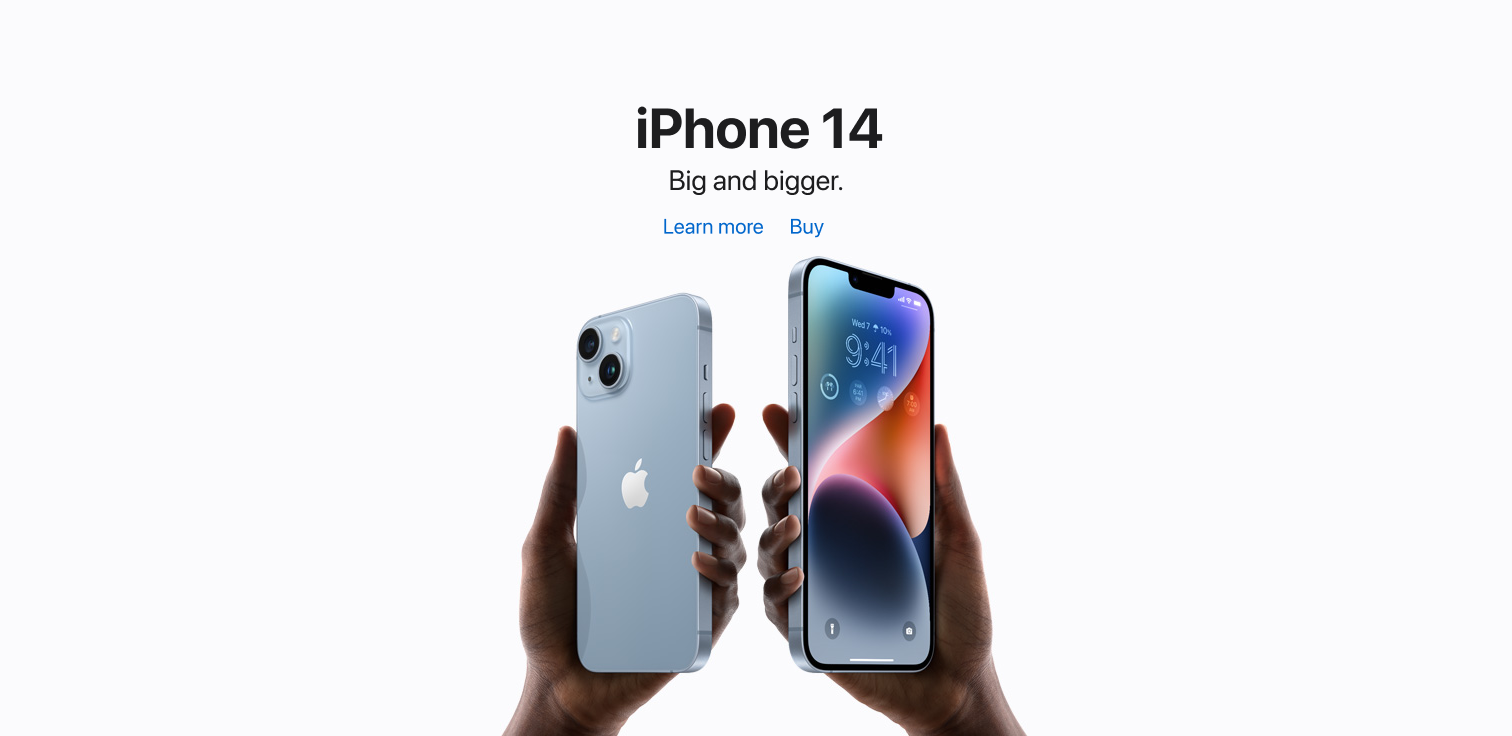
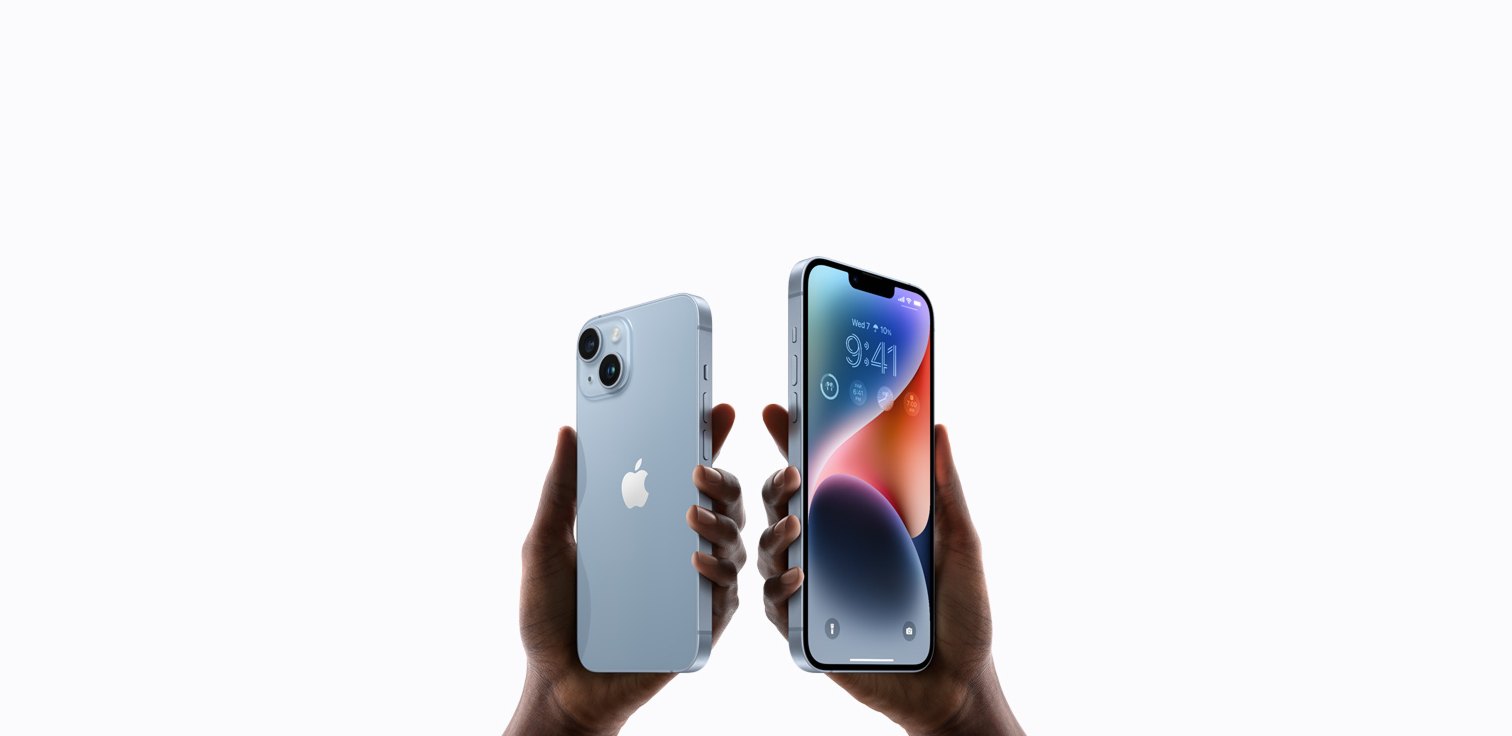
atualizando a section3

Changed region(s): [[0.4041, 0.125, 0.5906, 0.3125]]

diff --git a/style.css b/style.css
@@ -114,11 +114,51 @@ h2{
     padding: 12px 0;
 }
 
+.figura3sec3{
+    width: 100%;
+    height: 736px; 
+    display: flex;
+    flex-direction: column;
+    justify-content: center;
+    align-items: center;
+    text-align: center;
+}
+
 .figura3{
     background-image: url("imagens/figura\ 3.png");
     background-size: cover;
     width: 100%;
-    height: 612px; 
+    height: 736px;
+}
+
+.h1sec3{
+    color: #1D1D1F;
+    font-size: 56px;
+    font-weight: bold;
+    font-family: "Roboto", sans-serif;
+    line-height: 60px;
+}
+
+.h2sec3{
+    color: #1D1D1F;
+    font-size: 28px;
+    font-weight: bold;
+    font-family: "Roboto", sans-serif;
+    line-height: 32px;
+}
+
+.linksec3{
+    color: #0066CC;
+    font-size: 20px;
+    font-family: "Roboto", sans-serif;
+    line-height: 28px;
+}
+
+.asec3{
+    width: 206.93px;
+    display: flex;
+    justify-content: space-between;
+    align-items: center;
 }
 
 .sec4{

diff --git a/index.html b/index.html
@@ -85,7 +85,21 @@
             </section>
 
             <section class="sec3">
-                <div class="figura3">
+                <div class="figura3sec3">
+                    <h1 class="h1sec3">iPhone 14</h1>
+                    <h2 class="h2sec3">Big and bigger.</h2>
+                    <div class="asec3">
+                        <a href="">
+                            <p class="linksec3">Learn more</p>
+                        </a>
+
+                        <a href="">
+                            <p class="linksec3">Buy</p>
+                        </a>
+                    </div>
+                    <div class="figura3">
+
+                    </div>
 
                 </div>
             </section>
